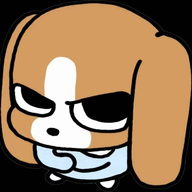
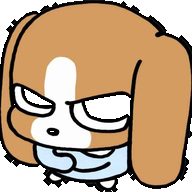
v23: 去除图标黑底(透明化PWA启动画面)

diff --git a/service-worker.js b/service-worker.js
@@ -1,7 +1,7 @@
 /**
- * Service Worker v22 - 强制清除所有缓存，始终拉取最新资源
+ * Service Worker v23 - 强制清除所有缓存，始终拉取最新资源
  */
-const CACHE_NAME = 'daily-workbench-v22';
+const CACHE_NAME = 'daily-workbench-v23';
 
 self.addEventListener('install', e => self.skipWaiting());
 
